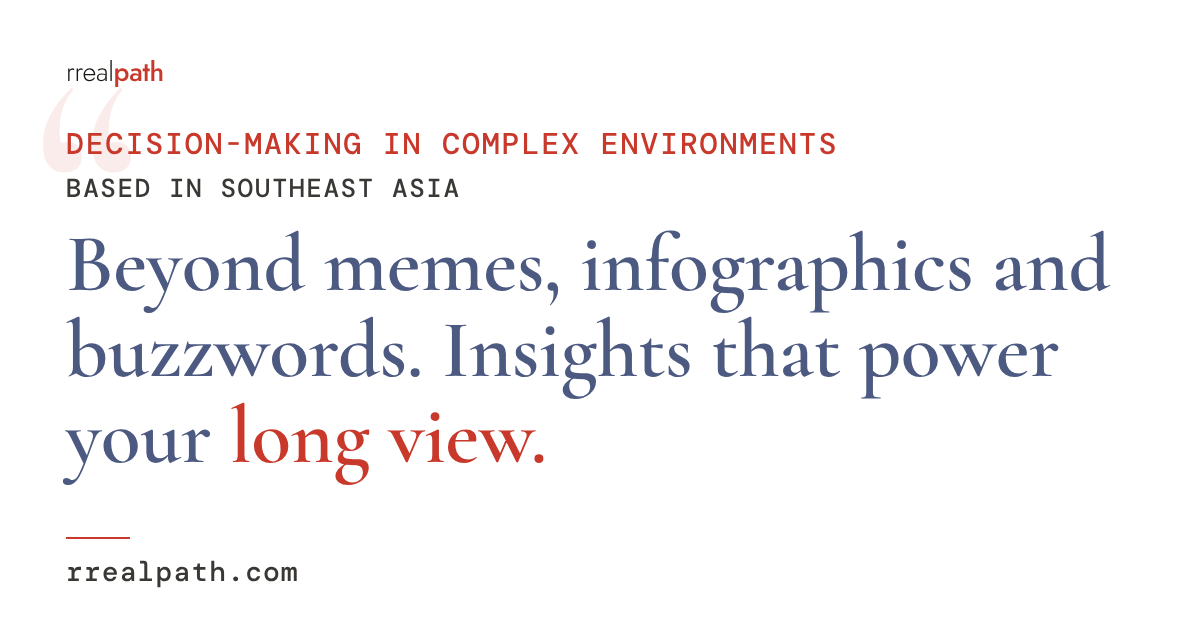
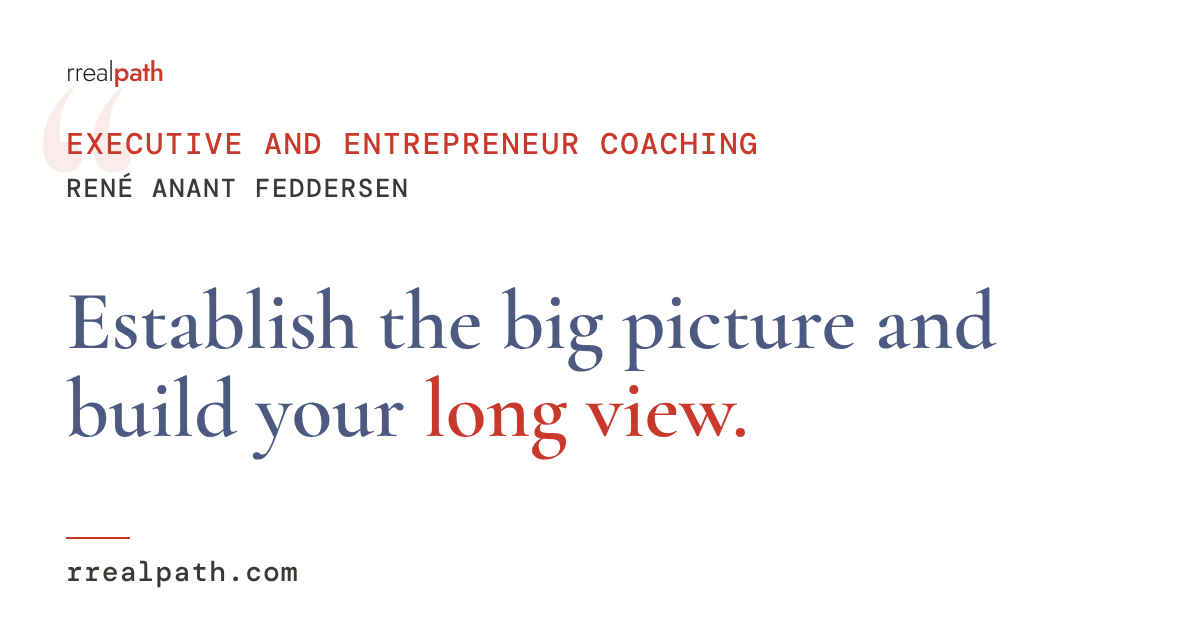
Order 91 A: Insights library image (a6, caption Ren 15:28) after the page title; new home share card (a6, Ren 15:06)
Claude-Session: https://claude.ai/code/session_01HAM5epgrJq2LwZS57dM2H4

Changed region(s): [[0.0617, 0.3619, 0.925, 0.7841], [0.0617, 0.2714, 0.4008, 0.3317], [0.0617, 0.2111, 0.7092, 0.2413]]

diff --git a/index.html b/index.html
@@ -17,12 +17,12 @@
   <meta property="og:title" content="Executive and Entrepreneur Coaching — rrealpath" />
   <meta property="og:description" content="René Anant Feddersen coaches senior executives and leaders to establish the big picture and build the long view in a fast-changing global business environment." />
   <meta property="og:url" content="https://rrealpath.com/" />
-  <meta property="og:image" content="https://rrealpath.com/images/home-og.png?v=2026-10-27" /><meta property="og:image:width" content="1200" /><meta property="og:image:height" content="630" />
+  <meta property="og:image" content="https://rrealpath.com/images/home-og.png?v=2026-11-13" /><meta property="og:image:width" content="1200" /><meta property="og:image:height" content="630" />
   <meta property="og:locale" content="en_US" />
   <meta name="twitter:card" content="summary_large_image" />
   <meta name="twitter:title" content="Executive and Entrepreneur Coaching — rrealpath" />
   <meta name="twitter:description" content="René Anant Feddersen coaches senior executives and leaders to establish the big picture and build the long view in a fast-changing global business environment." />
-  <meta name="twitter:image" content="https://rrealpath.com/images/home-og.png?v=2026-10-27" />
+  <meta name="twitter:image" content="https://rrealpath.com/images/home-og.png?v=2026-11-13" />
   <script type="application/ld+json">
   {"@context": "https://schema.org", "@type": "ProfessionalService", "@id": "https://rrealpath.com/#organization", "name": "rrealpath", "url": "https://rrealpath.com/", "image": "https://rrealpath.com/og-image.png", "description": "Executive coaching for senior executives and leaders navigating a diverse and fast-changing global business environment.", "email": "coach@rrealpath.com", "areaServed": ["Southeast Asia", "Worldwide"], "availableLanguage": ["English", "German", "Thai"], "address": {"@type": "PostalAddress", "addressLocality": "Chiang Mai", "addressCountry": "TH"}, "founder": {"@type": "Person", "@id": "https://rrealpath.com/#rene", "name": "René Anant Feddersen"}, "sameAs": ["https://www.linkedin.com/in/ren%C3%A9-anant-feddersen-a7b173/", "https://medium.com/@reneanantfeddersen"]}
   </script>

diff --git a/insights.html b/insights.html
@@ -69,6 +69,7 @@
 <main class="page">
 <div class="ins-wrap">
   <h1 class="ins-title-page">The big picture and the long view. Assembling knowledge, experience and capabilities <em>into unique personal assets.</em></h1>
+  <figure class="v2-fig ins-fig"><img src="/images/insights-01.jpg" width="1600" height="1067" alt="A spacious modern library seen from above: rows of white bookshelves and study tables under a high glass ceiling." /><figcaption class="cap"><span class="cap-bar"></span><span class="cap-title">A spacious, modern library</span><span class="cap-credit">Mary Rose Relente</span></figcaption></figure>
   <div class="ins-intro">
     <p>It&rsquo;s not about what you have, it&rsquo;s about what you do with it. Insights and ingenuity come from the intention to discover something unique and real that&rsquo;s buried beneath the surface. rrealpath articles aim to do just this. We explore mainstream narratives and question the hidden assumptions to reveal a different kind of truth.</p>
     <p>Basing the long view on the predictions of mainstream narratives is equivalent to moving with the herd. Nothing extraordinary ever comes from it. Building the big picture is about penetrating analysis, alternative perspectives and challenging the tidy consensus. It is about being wide open to contrarian points of view, and about trusting the discipline of your own analytical process.</p>

diff --git a/css/style.css b/css/style.css
@@ -701,6 +701,7 @@ body .article-teaser strong { color: var(--ink-faint); font-weight: 400; }
 .ins-wrap { max-width: var(--max-wide); margin: 0 auto; padding: 6rem 3rem 6rem; }
 .ins-title-page { color: var(--blue); font-family: var(--font-serif); font-weight: 400; font-size: clamp(2rem, 1.3rem + 2.4vw, 3.3rem); line-height: 1.12; letter-spacing: -0.01em; max-width: 900px; margin-bottom: 2.2rem; }
 .ins-title-page em { font-style: italic; color: var(--ink-mid); }
+.ins-fig { margin: 0 0 3rem; }
 .ins-intro { max-width: 700px; margin-bottom: 3.5rem; }
 .ins-intro p { font-size: 1.05rem; line-height: 1.85; color: var(--ink-mid); }
 .ins-intro p + p { margin-top: 1.3rem; }
